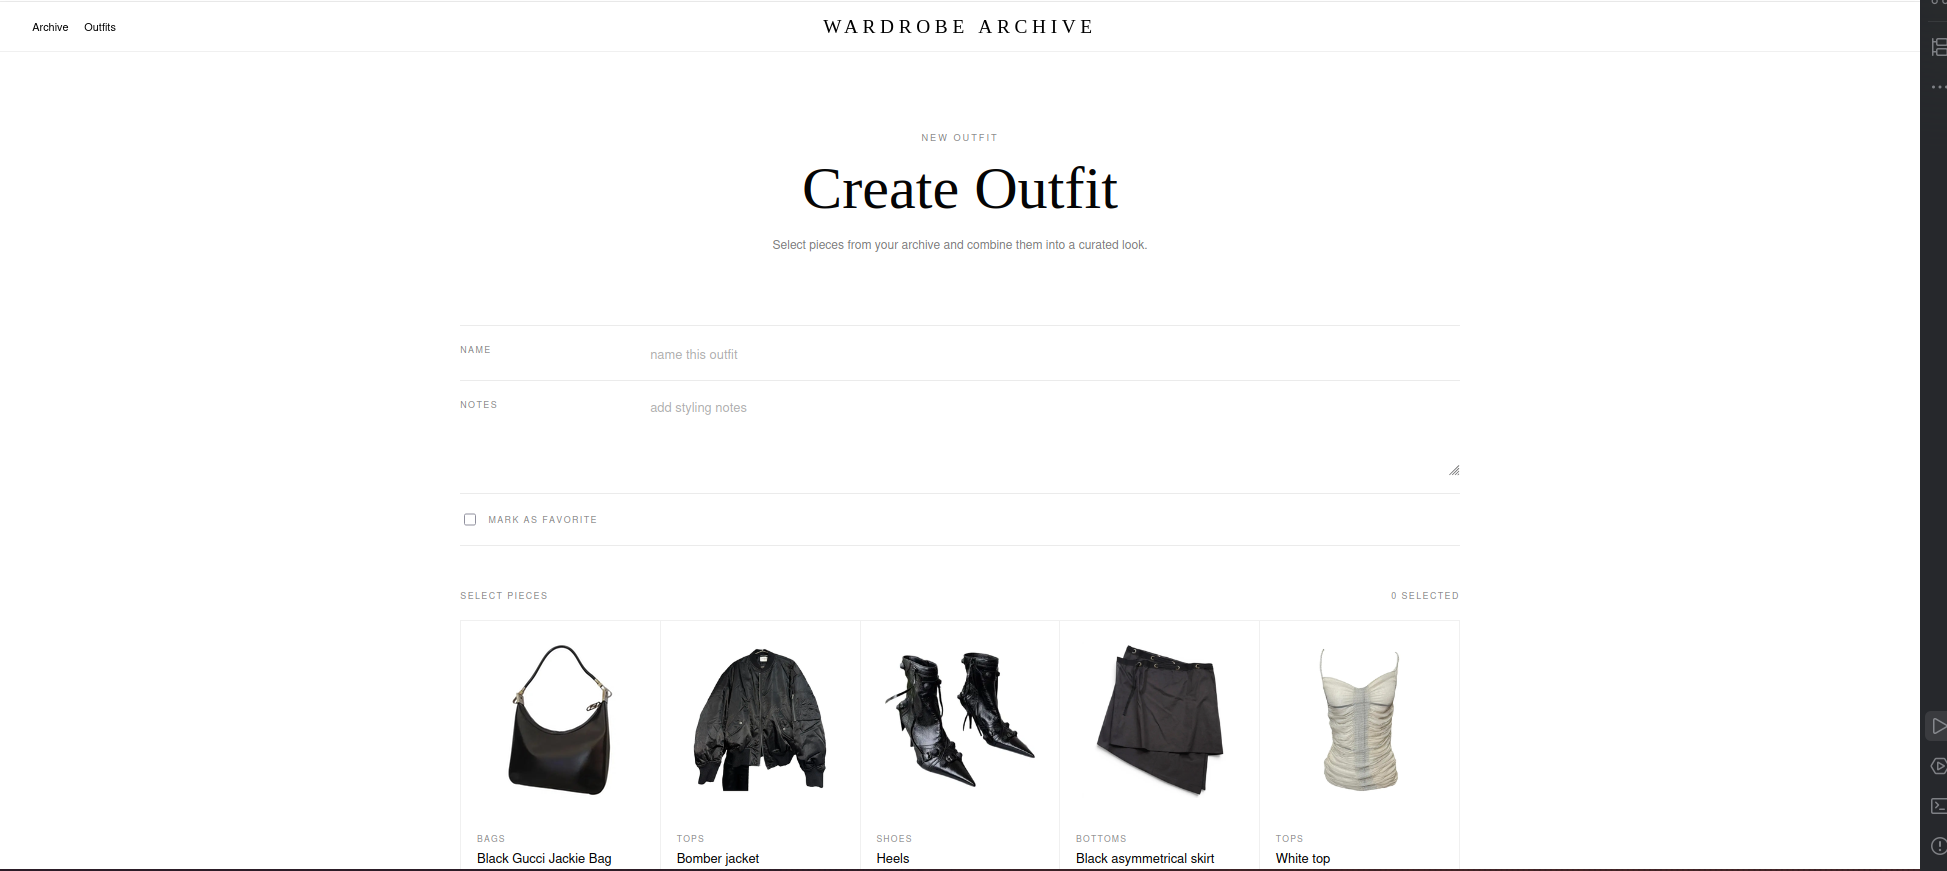
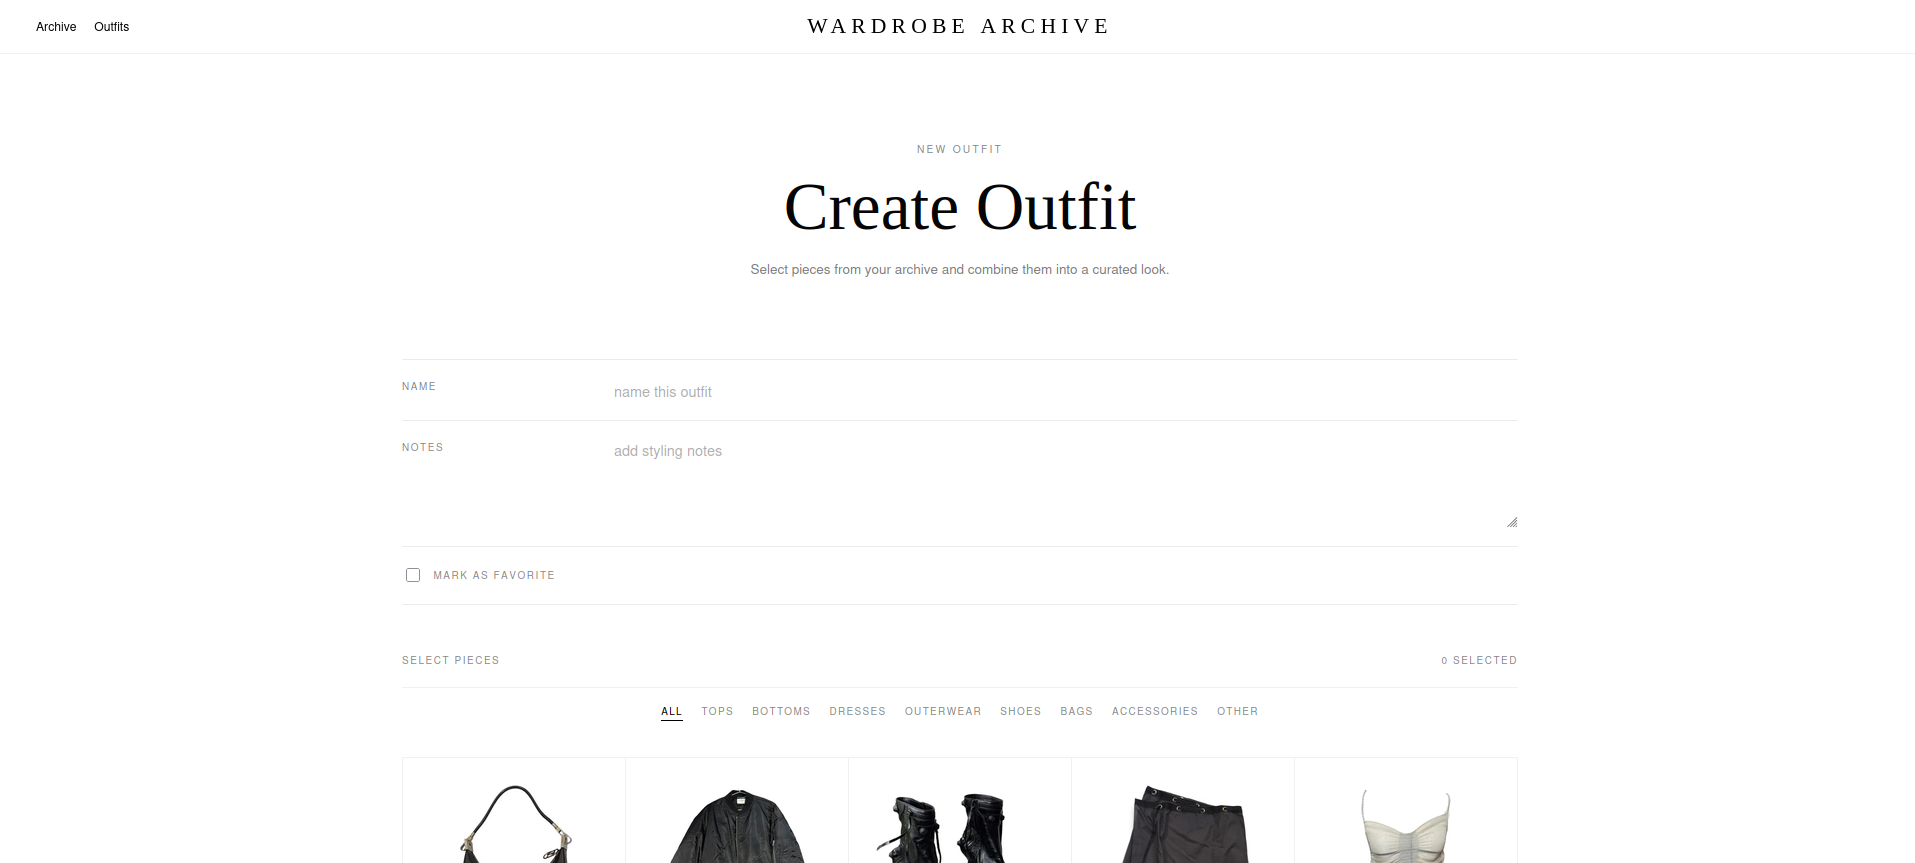
docs(readme): document category filtering

diff --git a/README.md b/README.md
@@ -15,7 +15,9 @@ Node.js and Express, and a MongoDB database accessed through Mongoose.
 
 Users can maintain a digital archive of clothing items and combine those items into reusable
 outfits. Both resources support complete create, read, update, and delete workflows. The visual
-design follows a reduced editorial style and adapts to desktop and mobile screen sizes.
+design follows a reduced editorial style and adapts to desktop and mobile screen sizes. Reusable
+category filters help users navigate the wardrobe and the item selection used by the outfit
+editor.
 
 ## Table of contents
 
@@ -51,9 +53,13 @@ Render service can enter an idle state.
 ### Wardrobe
 
 - Display all saved clothing items in a responsive archive
+- Filter the archive by `all`, `tops`, `bottoms`, `dresses`, `outerwear`, `shoes`, `bags`,
+  `accessories`, or `other`
+- Display a dedicated empty state when the selected category contains no items
 - Open a dedicated detail page for every item
 - Add new clothing items through a reusable reactive form
 - Edit existing items with prefilled form values
+- Cancel an edit and return to the corresponding item detail page without saving changes
 - Delete an item only after an explicit confirmation
 - Store category, brand, color, size, image path, notes, and favorite status
 - Use either an absolute HTTP/HTTPS image URL or a frontend-relative image path
@@ -64,6 +70,8 @@ Render service can enter an idle state.
 
 - Display all saved outfits with previews of up to four selected pieces
 - Create an outfit by selecting existing wardrobe items
+- Filter the available pieces by category while creating or editing an outfit
+- Preserve the current item selection when switching between filter categories
 - Require at least one unique clothing item per outfit
 - Edit outfit information and its selected pieces
 - Open every referenced item from the outfit detail page
@@ -83,6 +91,9 @@ Render service can enter an idle state.
 ### User experience and design
 
 - Responsive SCSS layouts for desktop and mobile devices
+- Reusable category filter with active states, keyboard focus styles, and ARIA attributes
+- Horizontally scrollable category navigation on narrow screens
+- Consistently sized selection cards for calm and predictable outfit-editor layouts
 - Angular Material components for icons, cards, buttons, and loading indicators
 - Custom Wardrobe Archive favicon
 - Dedicated frontend 404 page for unknown routes
@@ -190,8 +201,10 @@ flowchart TD
   form.
 - **Services** encapsulate all HTTP communication and return typed RxJS observables.
 - **Models** describe the TypeScript structures received from and sent to the API.
-- **Signals** store local page state such as data, loading flags, error messages, and delete
-  confirmations.
+- **Signals** store local page state such as data, the selected category, loading flags, error
+  messages, and delete confirmations.
+- **Computed signals** derive filtered item collections without changing the data received from
+  the API.
 - **Environment files** select the local or deployed API base URL during the Angular build.
 
 ### Backend responsibilities
@@ -212,6 +225,23 @@ flowchart TD
 5. The controller applies business rules and calls a Mongoose model.
 6. Mongoose reads or changes the MongoDB documents.
 7. The API returns JSON and the Angular page updates its signals.
+
+### Category filter flow
+
+Category filtering is implemented entirely in the frontend and does not trigger additional API
+requests:
+
+1. `ClothingItemService` loads the complete item collection once.
+2. Each page stores the active filter in a `selectedCategory` signal.
+3. A `filteredItems` computed signal returns either all items or only matching items.
+4. The reusable `CategoryFilter` component receives the active value through an input and emits
+   category changes through an output.
+5. Outfit selections are stored separately in a `Set<string>`, so changing the visible category
+   does not remove already selected pieces.
+
+The `CLOTHING_ITEM_CATEGORIES` readonly tuple is the shared source for the TypeScript category
+type, the clothing item form options, and the filter buttons. This prevents the supported
+categories from being duplicated across components.
 
 ## Data model
 
@@ -355,7 +385,7 @@ Example validation response:
 
 ```json
 {
-  "message": "Ungültige Eingabedaten",
+  "message": "UngÃ¼ltige Eingabedaten",
   "errors": {
     "name": ["Invalid input"]
   }
@@ -402,7 +432,10 @@ webtech_project/
 |   |   |   |-- features/
 |   |   |   |   `-- wardrobe/
 |   |   |   |       |-- components/
-|   |   |   |       `-- pages/
+|   |   |   |       |   |-- category-filter/
+|   |   |   |       |   |-- clothing-item-card/
+|   |   |   |       |   `-- clothing-item-form/
+|   |   |   |       `-- pages/        # Wardrobe, item, and outfit route pages
 |   |   |   |-- shared/
 |   |   |   |   |-- models/      # TypeScript interfaces
 |   |   |   |   `-- pages/       # Shared 404 page
@@ -591,8 +624,10 @@ Frontend tests use Vitest and Angular TestBed. They cover:
 - API services and expected HTTP methods
 - Page loading, success, empty, and error states
 - Reactive form validation and payload creation
-- Item and outfit selection
+- Item and outfit selection, including selection persistence across categories
+- Category filtering in the wardrobe and both outfit editors
 - Routing and contextual back navigation
+- Cancel navigation from the item editor to the item detail page
 - Delete confirmation workflows
 - Keyboard interaction on clothing item cards
 - Wildcard-route 404 page rendering
@@ -661,7 +696,7 @@ features are possible future extensions:
 
 - User accounts, authentication, and user-specific data
 - Direct image upload and external object storage
-- Search, category filters, and sorting controls in the user interface
+- Search and sorting controls in the user interface
 - Pagination for larger wardrobes
 - Automated end-to-end browser tests
 - OpenAPI or Swagger-generated API documentation
@@ -670,13 +705,11 @@ features are possible future extensions:
 
 The following AI tool was used during development:
 
-- **OpenAI ChatGPT / Codex:** support with architecture discussions, debugging,
-  test strategy and test review, implementation examples, documentation, README drafting, and the
-  custom favicon markup.
+- **OpenAI ChatGPT / Codex:** support with architecture discussions, debugging, test strategy and test review,
+  implementation examples, documentation, README drafting, and the custom favicon markup.
 
 AI-generated suggestions were reviewed, adapted to the project structure, and verified through
-manual checks, automated tests, linting, and production builds. Responsibility for the submitted
-code and the ability to explain it remain with the author.
+manual checks, automated tests, linting, and production builds.
 
 ## Author
 
